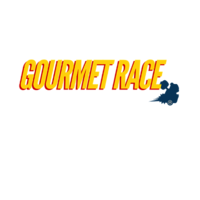
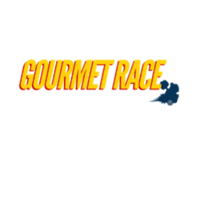
background reescalation

diff --git a/restaurantes2.html b/restaurantes2.html
@@ -1,0 +1,72 @@
+<!DOCTYPE html>
+<html>
+<!-- Required meta tags -->
+<meta charset="utf-8">
+<meta name="viewport" content="width=device-width, initial-scale=1, shrink-to-fit=no">
+
+<!-- Bootstrap CSS -->
+<link rel="stylesheet" href="https://stackpath.bootstrapcdn.com/bootstrap/4.4.1/css/bootstrap.min.css"
+    integrity="sha384-Vkoo8x4CGsO3+Hhxv8T/Q5PaXtkKtu6ug5TOeNV6gBiFeWPGFN9MuhOf23Q9Ifjh" crossorigin="anonymous">
+
+<!-- jQuery first, then Popper.js, then Bootstrap JS -->
+<script src="https://code.jquery.com/jquery-3.4.1.slim.min.js"
+    integrity="sha384-J6qa4849blE2+poT4WnyKhv5vZF5SrPo0iEjwBvKU7imGFAV0wwj1yYfoRSJoZ+n"
+    crossorigin="anonymous"></script>
+
+<script src="https://cdn.jsdelivr.net/npm/popper.js@1.16.0/dist/umd/popper.min.js"
+    integrity="sha384-Q6E9RHvbIyZFJoft+2mJbHaEWldlvI9IOYy5n3zV9zzTtmI3UksdQRVvoxMfooAo"
+    crossorigin="anonymous"></script>
+
+<script src="https://stackpath.bootstrapcdn.com/bootstrap/4.4.1/js/bootstrap.min.js"
+    integrity="sha384-wfSDF2E50Y2D1uUdj0O3uMBJnjuUD4Ih7YwaYd1iqfktj0Uod8GCExl3Og8ifwB6"
+    crossorigin="anonymous"></script>
+
+<head>
+    <link href="styles_restuarantes.css" rel="stylesheet" type="text/css" />
+    <link href='https://fonts.googleapis.com/css?family=Pacifico' rel='stylesheet' type='text/css'>
+    <link rel="stylesheet" href="css/core.css">
+    <title>Pide tu comida favorita online | Gourmet Race</title>
+    <meta name="description" content="Hambriento? Busca tus restaurantes favoritos">
+    <meta name="keywords" content="restaurantes,restaurants,restaurant,comida,food,hambre,precios,barato">
+</head>
+<body>
+	<!-- Navigation bar -->
+    <nav class="navbar navbar-dark bg-dark" style="height: 70px">
+        <a class="navbar-brand" style="cursor: not-allowed;">
+            <img src="resources/user.png" width="30" height="30" class="d-inline-block align-top" alt="">
+            Iniciar sesión o registrarse
+        </a>
+        <a href="https://marcosPlaza.github.io">
+        	<img src="resources/gourmetRace2_small.png" class="d-inline-block align-top" style="padding-top: 35px; padding-left: 150px;" alt="">
+        </a>
+        <form class="form-inline">
+            <a class="navbar-brand">¿Necesitas ayuda?</a>
+                <input class="form-control mr-sm-2" type="search" placeholder="Buscar..." pattern="^[a-zA-Zñ0-9]*$" aria-label="Search">
+                <button class="btn btn-danger my-2 my-sm-0" type="submit">Buscar</button>
+        </form>
+    </nav>
+    <!-- //Navigation bar -->
+
+	<!-- wrapper -->
+	<div class="overflow-auto" style="max-width: 100%; max-height: 100%; background-color: transparent;">
+		
+    </div>
+    <!-- //wrapper -->
+    <!-- Footer -->
+    <div class="bottom-block bg-dark">
+
+                <div class="flex-bottom">
+
+                    <div class="mobile-block">
+                        <h1>Descárgate nuestra app en tu tienda favorita</h1>
+                        <img type="submit" src="resources/apple.svg" alt="Apple Store">
+                        <img type="submit" src="resources/google.png" alt="Google Play">
+                     </div>
+
+                </div>
+
+                <div class="margin"></div>
+        </div>
+    <!-- //Footer -->
+</body>
+</html>

diff --git a/template.html b/template.html
@@ -1,0 +1,72 @@
+<!DOCTYPE html>
+<html>
+<!-- Required meta tags -->
+<meta charset="utf-8">
+<meta name="viewport" content="width=device-width, initial-scale=1, shrink-to-fit=no">
+
+<!-- Bootstrap CSS -->
+<link rel="stylesheet" href="https://stackpath.bootstrapcdn.com/bootstrap/4.4.1/css/bootstrap.min.css"
+    integrity="sha384-Vkoo8x4CGsO3+Hhxv8T/Q5PaXtkKtu6ug5TOeNV6gBiFeWPGFN9MuhOf23Q9Ifjh" crossorigin="anonymous">
+
+<!-- jQuery first, then Popper.js, then Bootstrap JS -->
+<script src="https://code.jquery.com/jquery-3.4.1.slim.min.js"
+    integrity="sha384-J6qa4849blE2+poT4WnyKhv5vZF5SrPo0iEjwBvKU7imGFAV0wwj1yYfoRSJoZ+n"
+    crossorigin="anonymous"></script>
+
+<script src="https://cdn.jsdelivr.net/npm/popper.js@1.16.0/dist/umd/popper.min.js"
+    integrity="sha384-Q6E9RHvbIyZFJoft+2mJbHaEWldlvI9IOYy5n3zV9zzTtmI3UksdQRVvoxMfooAo"
+    crossorigin="anonymous"></script>
+
+<script src="https://stackpath.bootstrapcdn.com/bootstrap/4.4.1/js/bootstrap.min.js"
+    integrity="sha384-wfSDF2E50Y2D1uUdj0O3uMBJnjuUD4Ih7YwaYd1iqfktj0Uod8GCExl3Og8ifwB6"
+    crossorigin="anonymous"></script>
+
+<head>
+    <link href="styles_restuarantes.css" rel="stylesheet" type="text/css" />
+    <link href='https://fonts.googleapis.com/css?family=Pacifico' rel='stylesheet' type='text/css'>
+    <link rel="stylesheet" href="css/core.css">
+    <title>Pide tu comida favorita online | Gourmet Race</title>
+    <meta name="description" content="Hambriento? Busca tus restaurantes favoritos">
+    <meta name="keywords" content="restaurantes,restaurants,restaurant,comida,food,hambre,precios,barato">
+</head>
+<body>
+	<!-- Navigation bar -->
+    <nav class="navbar navbar-dark bg-dark" style="height: 70px">
+        <a class="navbar-brand" style="cursor: not-allowed;">
+            <img src="resources/user.png" width="30" height="30" class="d-inline-block align-top" alt="">
+            Iniciar sesión o registrarse
+        </a>
+        <a href="https://marcosPlaza.github.io">
+        	<img src="resources/gourmetRace2_small.png" class="d-inline-block align-top" style="padding-top: 35px; padding-left: 150px;" alt="">
+        </a>
+        <form class="form-inline">
+            <a class="navbar-brand">¿Necesitas ayuda?</a>
+                <input class="form-control mr-sm-2" type="search" placeholder="Buscar..." pattern="^[a-zA-Zñ0-9]*$" aria-label="Search">
+                <button class="btn btn-danger my-2 my-sm-0" type="submit">Buscar</button>
+        </form>
+    </nav>
+    <!-- //Navigation bar -->
+
+	<!-- wrapper -->
+	<div class="overflow-auto" style="max-width: 100%; max-height: 100%; background-color: transparent;">
+		
+    </div>
+    <!-- //wrapper -->
+    <!-- Footer -->
+    <div class="bottom-block bg-dark">
+
+                <div class="flex-bottom">
+
+                    <div class="mobile-block">
+                        <h1>Descárgate nuestra app en tu tienda favorita</h1>
+                        <img type="submit" src="resources/apple.svg" alt="Apple Store">
+                        <img type="submit" src="resources/google.png" alt="Google Play">
+                     </div>
+
+                </div>
+
+                <div class="margin"></div>
+        </div>
+    <!-- //Footer -->
+</body>
+</html>

diff --git a/styles_restuarantes.css b/styles_restuarantes.css
@@ -1,3 +1,9 @@
+body {
+  background-image: url(resources/back2.png);
+  background-repeat: no-repeat;
+  background-attachment: fixed;
+  background-size: 100% 100%
+}
 .bxslider {
     display: flex;
     position: relative;
@@ -451,6 +457,8 @@
   .container input:checked ~ .checkmark {
     background-color: orangered;
   }
+
+
   
   /* Create the checkmark/indicator (hidden when not checked) */
   .checkmark:after {
@@ -476,3 +484,143 @@
     -ms-transform: rotate(45deg);
     transform: rotate(45deg);
   }
+
+.container-fluid.custom-container {
+    padding-top: 100px;
+    padding-left: 100px;
+    padding-right: 100px;
+}
+
+.navbar-brand
+{
+  font-family: 'Lato', sans-serif;
+  color:grey;
+  font-size: 16px;
+}
+
+.imgbox {
+    display: grid;
+    height: 100%;
+}
+
+.center-fit {
+    max-width: 100%;
+    max-height: 100vh;
+    margin: auto;
+}
+
+.Image
+{
+    margin-left: 10%;
+    width: 400px;
+    padding-top: 100px;
+}
+
+.Image-padding
+{
+    width: auto;
+    height: 100px;
+    background-color: transparent;
+}
+
+.Image-block
+{
+    margin-top: -60px;
+    margin-left: -35px; 
+    width: auto;
+}
+
+.hlabel
+{
+    margin-left: 10%;
+    margin-top: 5%;
+    font: bold 200% "Trebuchet MS", sans-serif;
+}
+
+.bottom-block
+{
+    margin-top: 5%;
+    position: fixed;
+    left: 0;
+    bottom: 0;
+    width: 100%;
+    color: white;
+}
+
+.margin
+{
+    height: 30px;
+}
+
+.flex-bottom
+{
+    display: flex;
+}
+
+.mobile-block
+{
+    margin-left: 10%;
+}
+
+.mobile-block h1
+{
+    color: white;
+    font: bold 100% "Trebuchet MS", sans-serif;
+    margin-bottom: 5%;
+}
+
+.info-block
+{
+    color: white;
+    margin-left: 5%;
+}
+
+.info-block h1
+{
+    font-size: 20px;
+    margin-bottom: 10%;
+}
+
+.info-block h2
+{
+    font-size: 16px;
+}
+
+.animate
+{
+    transition: all 0.1s;
+    -webkit-transition: all 0.1s;
+}
+
+.action-button
+{
+    width: 230px;
+    height: 100px;
+    text-align: center;
+    position: relative;
+    padding: 30px;
+    margin: 10px 20px 20px 10px;
+    float: left;
+    border-radius: 10px;
+    font-family: 'Verdana';
+    font-size: 25px;
+    color: #FFF;
+}
+
+.red
+{
+    background-color: #E74C3C;
+    border-bottom: 5px solid #BD3E31;
+}
+
+.gray {
+    background-color: #808080;
+    border-bottom: 5px solid #606060;
+}
+
+.action-button:active
+{
+    transform: translate(0px,5px);
+    -webkit-transform: translate(0px,5px);
+    border-bottom: 1px solid;
+}

diff --git a/index.html b/index.html
@@ -33,7 +33,7 @@
 
 <body>
     <!-- Background -->
-    <div class="Background">
+    <!--<div class="Background">--> 
 
         <!-- Navigation bar -->
         <nav class="navbar navbar-dark bg-dark" style="height: 50px">
@@ -112,10 +112,10 @@
                 </div>
 
                 <div class="margin"></div>
-            </div>
-            <!-- //Footer -->
-
         </div>
+        <!-- //Footer -->
+
+        <!--</div>-->
         <!-- //Background -->
 </body>
 

diff --git a/styles_main.css b/styles_main.css
@@ -1,3 +1,11 @@
+body {
+  background-image: url(resources/back1.png);
+  background-repeat: no-repeat;
+  background-attachment: fixed;
+  background-size: 100% 100%
+}
+
+
 .container-fluid.custom-container {
     padding-top: 100px;
     padding-left: 100px;
@@ -71,10 +79,6 @@
 .margin
 {
     height: 30px;
-}
-
-.margin2 {
-    /**/
 }
 
 .flex-bottom

diff --git a/restaurantes.html b/restaurantes.html
@@ -50,7 +50,6 @@
 </head>
 
 <body>
-
     <div class="Flex" style="background-color: black;" id="myHeader" style="position: absolute; z-index: 10;">
 
         <div class="Image">
@@ -1253,7 +1252,7 @@
         }
         document.addEventListener("click", closeAllSelect);
     </script>
-
+    </div>   
 </body>
 
 </html>
